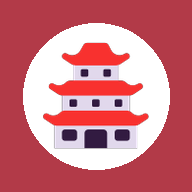
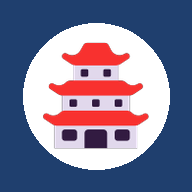
남색 색상·청록 비행기 카드·📞 연락처 메뉴 (OS-4)

diff --git a/index.html b/index.html
@@ -5,7 +5,7 @@
 <meta name="viewport" content="width=device-width, initial-scale=1, viewport-fit=cover">
 <base target="_top">
 <title>오사카여행</title>
-<meta name="theme-color" content="#1f7a4d">
+<meta name="theme-color" content="#1f3f6e">
 <meta name="color-scheme" content="light dark">
 <script>try { var th = JSON.parse(localStorage.getItem('trip_theme')); if (th === 'light' || th === 'dark') document.documentElement.setAttribute('data-theme', th); } catch (e) {}</script>
 <meta name="mobile-web-app-capable" content="yes">
@@ -26,30 +26,30 @@
 </script>
 <style>
 :root{
-  --bg:#f4f6f3; --card:#ffffff; --ink:#18221b; --sub:#5d6b61; --line:#dfe6e0;
-  --pri:#1f7a4d; --pri-ink:#ffffff; --pri-soft:#e3f1e8;
+  --bg:#f3f5f8; --card:#ffffff; --ink:#182030; --sub:#5d6675; --line:#dde3ea;
+  --pri:#1f3f6e; --pri-ink:#ffffff; --pri-soft:#e3eaf4;
   --warn:#c26a00; --warn-ink:#ffffff; --warn-soft:#fff3e0; --bad:#c62828; --bad-soft:#fdecea; --good:#2e7d32;
-  --flight:#3f51b5; --golf:#1f7a4d; --meal:#d35400; --move:#607d8b; --hotel:#6d4c9f; --massage:#ad1457; --shop:#00838f; --rest:#8d6e63; --barc:#b8860b;
+  --flight:#3f51b5; --golf:#1f3f6e; --meal:#d35400; --move:#607d8b; --hotel:#6d4c9f; --massage:#ad1457; --shop:#00838f; --rest:#8d6e63; --barc:#b8860b;
   --shadow:0 1px 3px rgba(0,0,0,.08),0 4px 14px rgba(0,0,0,.05);
   --r:16px; --fs:1.3;
-  --nav-bg:#d6e8dc; --nav-line:#7fb394;   /* 아래 메뉴: 본문과 구분되는 색 */
-  --day-bg:#ffffff; --day-line:#c9dccf;
+  --nav-bg:#d9e2ef; --nav-line:#7f9cc4;   /* 아래 메뉴: 본문과 구분되는 색 */
+  --day-bg:#ffffff; --day-line:#c7d3e2;
 }
 @media (prefers-color-scheme: dark){:root:not([data-theme=light]){
-    --bg:#0f1511; --card:#18211b; --ink:#e8efe9; --sub:#9aa9a0; --line:#2a362e;
-    --pri:#48b47c; --pri-ink:#08130c; --pri-soft:#1d3326;
+    --bg:#0f1218; --card:#181d26; --ink:#e8ecf2; --sub:#9aa3b2; --line:#2a3240;
+    --pri:#3d72c4; --pri-ink:#ffffff; --pri-soft:#1c2a40;
     --warn:#ffb74d; --warn-ink:#2a1700; --warn-soft:#3a2a10; --bad:#ef5350; --bad-soft:#3b1a19; --good:#66bb6a;
     --shadow:none;
-    --nav-bg:#26342b; --nav-line:#3f6b4f;
-    --day-bg:#212e25; --day-line:#3a5143;
+    --nav-bg:#212b3a; --nav-line:#3d5a85;
+    --day-bg:#1f2633; --day-line:#384a63;
   }}
 :root[data-theme=dark]{
-    --bg:#0f1511; --card:#18211b; --ink:#e8efe9; --sub:#9aa9a0; --line:#2a362e;
-    --pri:#48b47c; --pri-ink:#08130c; --pri-soft:#1d3326;
+    --bg:#0f1218; --card:#181d26; --ink:#e8ecf2; --sub:#9aa3b2; --line:#2a3240;
+    --pri:#3d72c4; --pri-ink:#ffffff; --pri-soft:#1c2a40;
     --warn:#ffb74d; --warn-ink:#2a1700; --warn-soft:#3a2a10; --bad:#ef5350; --bad-soft:#3b1a19; --good:#66bb6a;
     --shadow:none;
-    --nav-bg:#26342b; --nav-line:#3f6b4f;
-    --day-bg:#212e25; --day-line:#3a5143;
+    --nav-bg:#212b3a; --nav-line:#3d5a85;
+    --day-bg:#1f2633; --day-line:#384a63;
   }
 /* 화면 밝기: 자동(폰 설정) / 밝게 / 어둡게. color-scheme을 밝혀 두면 Chrome이 멋대로 어둡게 바꾸지 않음 */
 :root{color-scheme:light dark}
@@ -97,7 +97,17 @@ header.top .title{font-size:calc(17px*var(--fs));line-height:1.25}
 /* 항공 카드 */
 .flights{display:grid;gap:10px}
 @media(min-width:720px){.flights{grid-template-columns:1fr 1fr}}
-.flight{border-radius:var(--r);padding:14px 16px;background:linear-gradient(135deg,#0d47a1,#1e88e5);color:#fff}   /* 가는 날: 파랑 */
+.flight{border-radius:var(--r);padding:14px 16px;background:linear-gradient(135deg,#00695c,#26a69a);color:#fff}   /* 가는 날: 청록 (오사카 2026-11-25 사용자 고름) */
+.call-guide .cg-name{display:block;font-size:calc(22px*var(--fs));margin:2px 0 10px}
+.call-big,.call-sms{text-decoration:none}
+.call-big{display:flex;justify-content:center;align-items:center;gap:8px;width:100%;min-height:58px;font-size:calc(19px*var(--fs));font-weight:800}
+.call-big .cg-no{font-weight:600;opacity:.9;font-size:.85em}
+.call-sms{display:block;width:100%;margin-top:8px;text-align:center}
+.call-row{display:grid;grid-template-columns:1fr 1fr;gap:8px;margin-top:8px}
+.call-p{display:flex;flex-direction:column;align-items:center;justify-content:center;min-height:62px;border-radius:12px;border:1.5px solid var(--pri);background:var(--pri-soft);color:var(--ink);text-decoration:none;padding:6px 4px;text-align:center}
+.call-p b{font-size:calc(18px*var(--fs))}
+.call-p .small{color:var(--sub);white-space:nowrap}
+.call-p.off{border:1.5px dashed var(--line);background:transparent;opacity:.6}
 .flight.back{background:linear-gradient(135deg,#b23c00,#ef7d00)}   /* 오는 날: 주황 */
 /* 요약 화면 날짜 상자: 바탕과 구분 */
 .daycard{background:var(--day-bg);border:1px solid var(--day-line);border-left:6px solid var(--pri)}
@@ -234,10 +244,10 @@ nav.tabs{position:sticky;top:0;z-index:20;background:var(--bg);padding:8px 0;mar
 .fbox.reco{border-color:var(--warn)}
 .rmap{height:260px;border-radius:10px;overflow:hidden;margin-top:8px;background:#ddd}
 .rpin{width:28px;height:28px;border-radius:50%;background:#d93025;color:#fff;font:800 14px/24px system-ui,sans-serif;text-align:center;border:2px solid #fff;box-shadow:0 1px 4px rgba(0,0,0,.4);box-sizing:border-box;transition:transform .15s}
-.rpin.on{background:#1f7a4d;transform:scale(1.3)}
+.rpin.on{background:#1f3f6e;transform:scale(1.3)}
 .rpin.base{background:#1a73e8}
 .rcard{border:1px solid var(--line);border-radius:12px;padding:10px;margin-top:8px;background:var(--card)}
-.rcard .rno{display:inline-block;min-width:24px;height:24px;border-radius:50%;background:#1f7a4d;color:#fff;text-align:center;font-size:14px;line-height:24px}
+.rcard .rno{display:inline-block;min-width:24px;height:24px;border-radius:50%;background:#1f3f6e;color:#fff;text-align:center;font-size:14px;line-height:24px}
 .rnav{display:grid;grid-template-columns:1fr auto 1fr;gap:8px;align-items:center;margin-top:10px}
 .rnav span{color:var(--sub);text-align:center;white-space:nowrap}
 .rnav .btn{width:100%}
@@ -874,7 +884,7 @@ var $app = document.getElementById('app');
 
 /* 서버 주소: 구글 앱스 스크립트 웹앱 (GitHub Pages 화면이 여기로 요청을 보냄) */
 var EXEC_URL = 'https://script.google.com/macros/s/AKfycbxJBTN16c0RaJZqiaTon3on_HDKGRTvt9o22w4i4PMBY93OZB_-JeZH8cUjdRbzblVh/exec';   // 오사카 새 배포 주소로 바꿈
-var APP_VER = 'OS-2';   // 화면을 고칠 때마다 올림 (정보 탭에 보임 → 폰이 새 화면인지 확인용)
+var APP_VER = 'OS-4';   // 화면을 고칠 때마다 올림 (정보 탭에 보임 → 폰이 새 화면인지 확인용)
 var IN_GAS =!!(window.google && google.script && google.script.run);   // 앱스 스크립트 화면 또는 내 PC 미리보기
 
 /* 두 번 저장 막기: 단추를 누른 그 순간 서버 요청이 나가면, 답이 올 때까지 그 단추를 잠금('저장 중…') */
@@ -1204,7 +1214,7 @@ function defaultTab() {
   var n = localNow(), ds = dates();
   if (n.date >= ds[0] && n.date <= ds[ds.length - 1]) return n.date;   // 여행 중에는 오늘 일정
   var t = LS.get('trip_tab', 'all');
-  return (t === 'all' || (t === 'score' && golfOn()) || t === 'info' || (t === 'money' && canMoney()) || ds.indexOf(t) >= 0) ? t : 'all';
+  return (t === 'all' || t === 'call' || (t === 'score' && golfOn()) || t === 'info' || (t === 'money' && canMoney()) || ds.indexOf(t) >= 0) ? t : 'all';
 }
 function dayLabel(date) {
   var its = itemsOf(date);
@@ -1792,13 +1802,14 @@ function render() {
   var SECS = [
     { k: 'all', i: '🏠', t: '요약' },
     { k: 'day', i: '📅', t: '일정' },
+    { k: 'call', i: '📞', t: '연락처' },
     golfOn() ? { k: 'score', i: '⛳', t: '스코어' } : null,
     canMoney() ? { k: 'money', i: '💰', t: '경비' } : null,
     { k: 'info', i: 'ℹ', t: '정보' }
   ];
   SECS = SECS.filter(Boolean);
   if (sec === 'money' && !canMoney()) { S.tab = 'all'; sec = 'all'; }
-  var secTitle = { all: '여행 요약', score: '골프 스코어', money: '회비 · 경비 · 정산', info: '여행 정보' }[sec];
+  var secTitle = { call: '📞 연락처', all: '여행 요약', score: '골프 스코어', money: '회비 · 경비 · 정산', info: '여행 정보' }[sec];
 
   $app.innerHTML =
     '<div class="wrap">' +
@@ -1874,6 +1885,7 @@ function renderMain() {
   var h;
   if (S.tab === 'all') h = viewAll();
   else if (S.tab === 'score') h = viewScore();
+  else if (S.tab === 'call') h = viewCall();
   else if (S.tab === 'info') h = viewInfo();
   else if (S.tab === 'money') h = canMoney() ? viewMoney().replace(/(\d)원/g, '$1 원').replace(/¥(?=[\d−-])/g, '¥ ').replace(/(\d)만원/g, '$1 만원') : viewAll();   // 경비 화면 금액은 숫자와 '원' 사이 한 칸 (사용자 2026-11-22, 엔화도 '¥ 60,500'처럼 한 칸(줄이 바뀌어도 안 떨어지는 빈칸), '1080만원'처럼 줄인 금액은 그대로)
   else h = viewDay(S.tab);
@@ -2967,7 +2979,7 @@ function editItem(it, preset) {
         });
         map.fitBounds(bounds, 36);
         M = {
-          active: function (k) { marks.forEach(function (m, j) { m.setIcon(dot(j === k ? '#1f7a4d' : '#d93025', j === k ? 17 : 13)); m.setZIndex(j === k ? 1000 : 1); }); },
+          active: function (k) { marks.forEach(function (m, j) { m.setIcon(dot(j === k ? '#1f3f6e' : '#d93025', j === k ? 17 : 13)); m.setZIndex(j === k ? 1000 : 1); }); },
           pan: function (k) { map.panTo(marks[k].getPosition()); }
         };
       });
@@ -4004,6 +4016,43 @@ function showCards(rid) {
   });
 }
 /* 창은 그대로 두고 뒤 화면만 새로 그림 (스코어카드 장수 등) */
+/* ═════════ 📞 연락처 (아래 메뉴, 오사카 2026-11-25 사용자 요청) ═════════
+ * 맨 위 인솔 가이드 큰 단추 → 우리 일행 18명(부부끼리 한 줄, 누르면 바로 전화) → 숙소·여행사·긴급
+ * 일행 번호는 시트 '연락처' 탭 group '우리 일행' 줄(name = 회원 이름)에 회장이 직접 적음 */
+var CALL_ME = '우리 일행';
+function telHref(p) { return 'tel:' + esc(String(p).replace(/[^\d+]/g, '')); }
+function viewCall() {
+  var cs = S.D.contacts || [], groups = {}, order = [];
+  cs.forEach(function (c) { if (!groups[c.group]) { groups[c.group] = []; order.push(c.group); } groups[c.group].push(c); });
+  var ph = {}; (groups[CALL_ME] || []).forEach(function (c) { ph[c.name] = String(c.phone || '').trim(); });
+  var out = '';
+  (groups['인솔'] || []).forEach(function (c) {
+    out += '<div class="card call-guide"><div class="small muted">인솔 가이드 · ' + esc(c.note || '') + '</div><b class="cg-name">' + esc(c.name) + '</b>' +
+      '<a class="btn pri call-big" href="' + telHref(c.phone) + '">📞 전화 걸기 <span class="cg-no">' + esc(c.phone) + '</span></a>' +
+      '<a class="btn call-sms" href="sms:' + esc(String(c.phone).replace(/[^\d+]/g, '')) + '">💬 문자 보내기</a></div>';
+  });
+  // 우리 일행: 회원 순서대로 가정마다 한 줄 (남편 | 부인)
+  var fam = {}, fo = [];
+  S.D.members.forEach(function (m) { var f = m.family || m.name; if (!fam[f]) { fam[f] = []; fo.push(f); } fam[f].push(m.name); });
+  var none = 0;
+  var btn = function (n) {
+    var p = ph[n];
+    if (!p) { none++; return '<span class="call-p off"><b>' + esc(n) + '</b><span class="small">번호 없음</span></span>'; }
+    return '<a class="call-p" href="' + telHref(p) + '"><b>' + esc(n) + '</b><span class="small">' + esc(p) + '</span></a>';
+  };
+  out += '<div class="card"><b>👥 우리 일행 <span class="small muted">' + S.D.members.length + '명 · 이름을 누르면 전화</span></b>' +
+    fo.map(function (f) { var ns = fam[f]; return '<div class="call-row">' + btn(ns[0]) + (ns[1] ? btn(ns[1]) : '<span></span>') + '</div>'; }).join('') +
+    (S.me.isAdmin && none ? '<p class="small muted" style="margin:8px 0 0">🛠 번호가 없는 ' + none + '명은 구글 시트 「연락처」 탭 \'' + CALL_ME + '\' 줄의 phone 칸에 적으면 몇 분 안에 보여요.</p>' : '') + '</div>';
+  // 나머지 (숙소·여행사·일본 긴급 …)
+  order.filter(function (g) { return g !== '인솔' && g !== CALL_ME; }).forEach(function (g) {
+    out += '<div class="card"><b>📞 ' + esc(g) + '</b>' + groups[g].map(function (c) {
+      return '<div class="row between" style="flex-wrap:nowrap;align-items:center;border-top:1px solid var(--line);padding:8px 0;margin-top:6px"><div style="flex:1;min-width:0">' + esc(c.name) +
+        (c.note ? '<div class="small muted">' + esc(c.note) + '</div>' : '') + '</div>' +
+        '<a class="btn sm pri" style="white-space:nowrap;flex-shrink:0" href="' + telHref(c.phone) + '">' + esc(c.phone) + '</a></div>';
+    }).join('') + '</div>';
+  });
+  return out;
+}
 function renderMainBehind() {
   var m = el('#main'); if (!m) return;
   var h = S.tab === 'score' ? viewScore() : null; if (h === null) return;
@@ -5647,7 +5696,8 @@ function viewInfo() {
   S.D.contacts.forEach(function (c) { (groups[c.group] = groups[c.group] || []).push(c); });
   var tel = function (p) { return 'tel:' + esc(String(p).replace(/[^\d+]/g, '')); };
   var tab = S.infoTab || LS.get('trip_itab', 'thai');
-  var list = [['voucher', '바우처'], ['thai', '일본어'], ['hotel', '숙소'], ['call', '연락처'], ['me', '내 정보']];
+  var list = [['voucher', '바우처'], ['thai', '일본어'], ['hotel', '숙소'], ['me', '내 정보']];   // 연락처는 아래 메뉴 📞 (2026-11-25)
+  if (tab === 'call') tab = 'me';
   if (S.me.isAdmin) list.push(['admin', '관리자']);
   else if (tab === 'admin') tab = 'me';
   var wait = S.D.requests.filter(function (r) { return r.status === '대기'; }).length;
@@ -5683,7 +5733,7 @@ function viewInfo() {
         '<li><b>카톡에서 열었다면</b>: 오른쪽 아래(또는 위) <b>⋮</b> → <b>다른 브라우저로 열기</b> → <b>Chrome</b></li>' +
         '<li>Chrome 오른쪽 위 <b>⋮</b> → <b>홈 화면에 추가</b> → <b>설치</b> (설치가 없으면 추가)</li>' +
         '<li>삼성 인터넷이라면: 아래 <b>≡</b> → <b>현재 페이지 추가</b> → <b>홈 화면</b></li>' +
-      '</ol><p class="small muted">⛳ 아이콘이 생깁니다. 처음 한 번은 PIN을 다시 넣어야 할 수 있습니다.</p>' +
+      '</ol><p class="small muted">🏯 아이콘이 생깁니다. 처음 한 번은 모임 번호를 다시 넣어야 할 수 있습니다.</p>' +
       '<button class="btn sm" data-act="copy-link">🔗 앱 링크 복사</button>' +
       '<p class="small muted" style="margin-top:8px">화면 버전 ' + APP_VER + ' · 화면 폭 ' + window.innerWidth + 'px · 글씨 ' + esc(fsLabel()) + ' (' + getComputedStyle(document.documentElement).getPropertyValue('--fs').trim() + ')</p></div>' +
     '<div class="card"><b>👤 내 정보 · ' + esc(S.me.name) + '</b><div class="row wrap-row" style="margin-top:8px">' + (S.me.isAdmin ? '<button class="btn sm" data-act="pin">🔑 PIN 바꾸기</button>' : '') + '<button class="btn sm" data-act="req">✋ 관리자에게 요청</button><button class="btn sm" data-act="logout">나가기</button></div>' +

diff --git a/sw.js b/sw.js
@@ -1,7 +1,7 @@
 /* 화면 파일만 저장해 두는 간단한 service worker
  * - 화면(index.html 등)은 인터넷 먼저 → 안 되면 저장본 (새 버전이 바로 반영됨)
  * - 데이터 요청(script.google.com)은 건드리지 않음 */
-var CACHE = 'osaka-v1';
+var CACHE = 'osaka-v2';
 var FILES = ['./', './index.html', './manifest.json', './icon-192.png', './icon-512.png'];
 
 self.addEventListener('install', function (e) {

diff --git a/make_icons.py b/make_icons.py
@@ -1,10 +1,10 @@
-"""홈 화면 아이콘 만들기: 붉은 바탕에 🏯 (192, 512, 마스크용 512)  →  python make_icons.py"""
+"""홈 화면 아이콘 만들기: 남색 바탕에 🏯 (192, 512, 마스크용 512)  →  python make_icons.py"""
 import os
 from PIL import Image, ImageDraw, ImageFont
 
 HERE = os.path.dirname(os.path.abspath(__file__))
 FONT = r'C:\Windows\Fonts\seguiemj.ttf'
-BG = (178, 58, 72, 255)   # 오사카 붉은색
+BG = (31, 63, 110, 255)   # 쪽빛 남색 #1f3f6e
 
 
 def make(size, name, scale):
